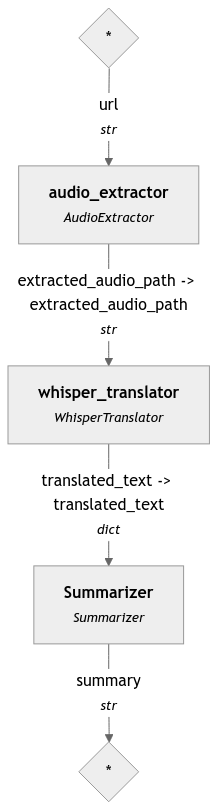
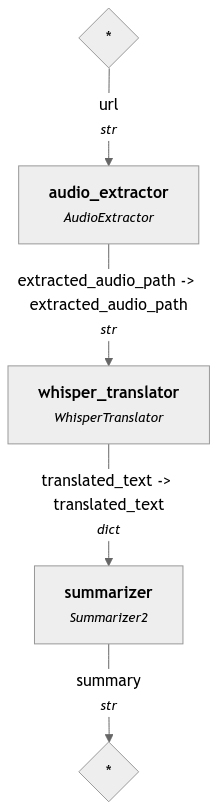
Basic pipeline components triggered

Changed region(s): [[0.2765, 0.7099, 0.6912, 0.7716], [0.8295, 0.679, 0.8571, 0.8025], [0.1382, 0.679, 0.1659, 0.8025]]

diff --git a/haystack_custom_component.py b/haystack_custom_component.py
@@ -12,6 +12,7 @@ import re
 import transformers
 from transformers import AutoModelForCausalLM, AutoTokenizer, AutoModel
 from llama_cpp import Llama
+import torch
 
 # Define the WhisperTranslator component
 @component
@@ -21,13 +22,15 @@ class WhisperTranslator:
     """
     @component.output_types(translated_text=dict)
     def run(self, extracted_audio_path:str):
+        print("Translator started")
         # Load the Whisper model
         model = whisper.load_model("base")
         extracted_audio_path= extracted_audio_path.replace("\\", r"/")
         extracted_audio_path= extracted_audio_path.replace(" ", r"")
         extracted_audio_path = r"{}".format(extracted_audio_path)
-        result = model.transcribe(extracted_audio_path, task="translate")
-        return result
+        translated_text = model.transcribe(extracted_audio_path, task="translate")
+        
+        return {"translated_text": translated_text}
 
 @component
 class AudioExtractor:
@@ -36,6 +39,7 @@ class AudioExtractor:
     @component.output_types(extracted_audio_path= str)
     def run(self, url:str):
         try:
+            print("Audo extarctor started")
             # Setup options for yt-dlp
             ydl_opts = {
                 'format': 'bestaudio/best',
@@ -71,20 +75,52 @@ class Summarizer:
         # Load the model and tokenizer directly from Hugging Face
         llm = Llama.from_pretrained(
 	        repo_id="TheBloke/Llama-2-7B-32K-Instruct-GGUF",
-	        filename="llama-2-7b-32k-instruct.Q2_K.gguf",
+	        filename="llama-2-7b-32k-instruct.Q5_K_S.gguf",
             )
 
 
         # Define the input
-        input_text = "Summarize the input text in 100 words: {}".format(translated_text["whisper_translator"]["text"])
-        
+        input_text = "Summarize the input text in 10 words: {}".format(translated_text["text"])
+
+        # Print the translated_text to verify its content
+        print("Translated Text:", translated_text)
         # Generate a response from the model
-        response = llm(prompt=input_text, max_length=200)
+        response = llm(prompt=input_text, max_tokens=32000)
 
         # Extract and return the summary from the response
         summary = response['choices'][0]['text']
+
+        print(response)
         #print("output type", type(summary))
         return {"summary": summary}
+@component
+class Summarizer2:
+    """_summary_: A component which takes in the transcript/english-translated text and summarizes it
+    """
+    @component.output_types(summary= str)
+    def run(self, translated_text:dict):
+        """_summary_
+
+        Args:
+            translated_text (str): _description_
+        """
+        # Load model directly
+        print("Summarizer initiated")
+
+        model = AutoModelForCausalLM.from_pretrained("TheBloke/Llama-2-7B-32K-Instruct-GGUF")
+        tokenizer = AutoTokenizer.from_pretrained("TheBloke/Llama-2-7B-32K-Instruct-GGUF")
+
+        # Tokenize input with larger context window
+        input_text = "Summarize the input text in 10 words: {}".format(translated_text["text"])
+        inputs = tokenizer(input_text, return_tensors="pt", max_length=32000, truncation=True)
+
+        # Generate summary using the model
+        output = model.generate(**inputs, max_new_tokens=1024)
+        summary = tokenizer.decode(output[0], skip_special_tokens=True)
+                
+        print(summary)
+        return {"summary": summary}
+
 
 
 
@@ -98,17 +134,20 @@ if __name__ == "__main__":
     # Add the WhisperTranslator component to the pipeline
     audio_extractor = AudioExtractor()
     whisper_translator = WhisperTranslator()
-    summarizer = Summarizer()
+    summarizer = Summarizer2()
     pipeline.add_component(name="audio_extractor", instance=audio_extractor)
     pipeline.add_component(name="whisper_translator", instance= whisper_translator)
-    pipeline.add_component(name="Summarizer", instance=summarizer)
-    pipeline.connect("audio_extractor","whisper_translator")
-    pipeline.connect("whisper_translator", "Summarizer")
+    pipeline.add_component(name="summarizer", instance=summarizer)
+    pipeline.connect("audio_extractor.extracted_audio_path", "whisper_translator.extracted_audio_path")
+    pipeline.connect("whisper_translator.translated_text", "summarizer.translated_text")
     pipeline.draw(path=r"./local_path.png")
+    print(pipeline)
     # Run the pipeline
     result = pipeline.run({"url": input_video_url})
-    for key, val in result.items():
-        print(key)
-    #print(result)
+    #print("Final pipeline result:", result)
 
-    print(result["whisper_translator"])
+    # Access the summary explicitly if not already in the result
+    if 'Summarizer' in result:
+        print("Summary:", result['Summarizer'])
+    else:
+        print("Summarizer output missing.")

diff --git a/test.py b/test.py
@@ -1,25 +1,73 @@
+from haystack import component, Pipeline
+import whisper
+from pytube import YouTube
+#from haystack.document_stores import InMemoryDocumentStore
+from haystack import Document
+from io import BytesIO
+from moviepy.editor import AudioFileClip
+import os
+from yt_dlp import YoutubeDL
+from pydub import AudioSegment
+import re
 import transformers
-from transformers import AutoModelForCausalLM, AutoTokenizer, AutoModel      
+from transformers import AutoModelForCausalLM, AutoTokenizer, AutoModel
+from llama_cpp import Llama
 
 
 
-model_name = "TheBloke/Llama-2-7B-32K-Instruct-GGUF"
-        
-        
-        
-        
-model = AutoModel.from_pretrained(model_name)
-tokenizer = AutoTokenizer.from_pretrained(model_name)
+@component
+class Summarizer:
+    """_summary_: A component which takes in the transcript/english-translated text and summarizes it
+    """
+    @component.output_types(summary= str)
+    def run(self, translated_text:dict):
+        """_summary_
 
-# Define the input
-input_text = "Summarize the input text: {}".format(translated_text)
-print("The input text is:", input_text)
-inputs = tokenizer(input_text, return_tensors="pt")
+        Args:
+            translated_text (str): _description_
+        """
+        # Load the model and tokenizer directly from Hugging Face
+        llm = Llama.from_pretrained(
+	        repo_id="TheBloke/Llama-2-7B-32K-Instruct-GGUF",
+	        filename="llama-2-7b-32k-instruct.Q5_K_S.gguf",
+            )
 
 
+        # Define the input
+        input_text = "Summarize the input text in 10 words: {}".format(translated_text.get("text", ""))
 
-# Generate text
-outputs = model.generate(inputs['input_ids'], max_length=50)
-# Decode the generated text
-generated_text = tokenizer.decode(outputs[0], skip_special_tokens=True)
-print(generated_text)
+        # Print the translated_text to verify its content
+        print("Translated Text:", translated_text)
+        # Generate a response from the model
+        response = llm(prompt=input_text, max_length=200)
+
+        # Extract and return the summary from the response
+        summary = response['choices'][0].get('text', 'No summary available.')
+
+        print(response)
+        #print("output type", type(summary))
+        return {"summary": summary}
+    
+
+if __name__ == "__main__":
+    # Create the pipeline
+    pipeline = Pipeline()
+
+    # Input audio file path
+    input_video_url = "https://www.youtube.com/watch?v=vJNjaaylllY"
+    
+ 
+    summarizer = Summarizer()
+
+
+    pipeline.draw(path=r"./local_path.png")
+    # Run the pipeline
+    input_text= {"text": "One way forward here could be to add a debug arg to Pipeline.run() and every node.run(). If True the node can write information to the _debug key introduced in #1321 .Ideally, we are not only returning this debug information at the very end but already print/log it along the way."}
+    result = pipeline.run(input_text)
+    print("Final pipeline result:", result)
+
+    # Access the summary explicitly if not already in the result
+    if 'Summarizer' in result:
+        print("Summary:", result['Summarizer'])
+    else:
+        print("Summarizer output missing.")
